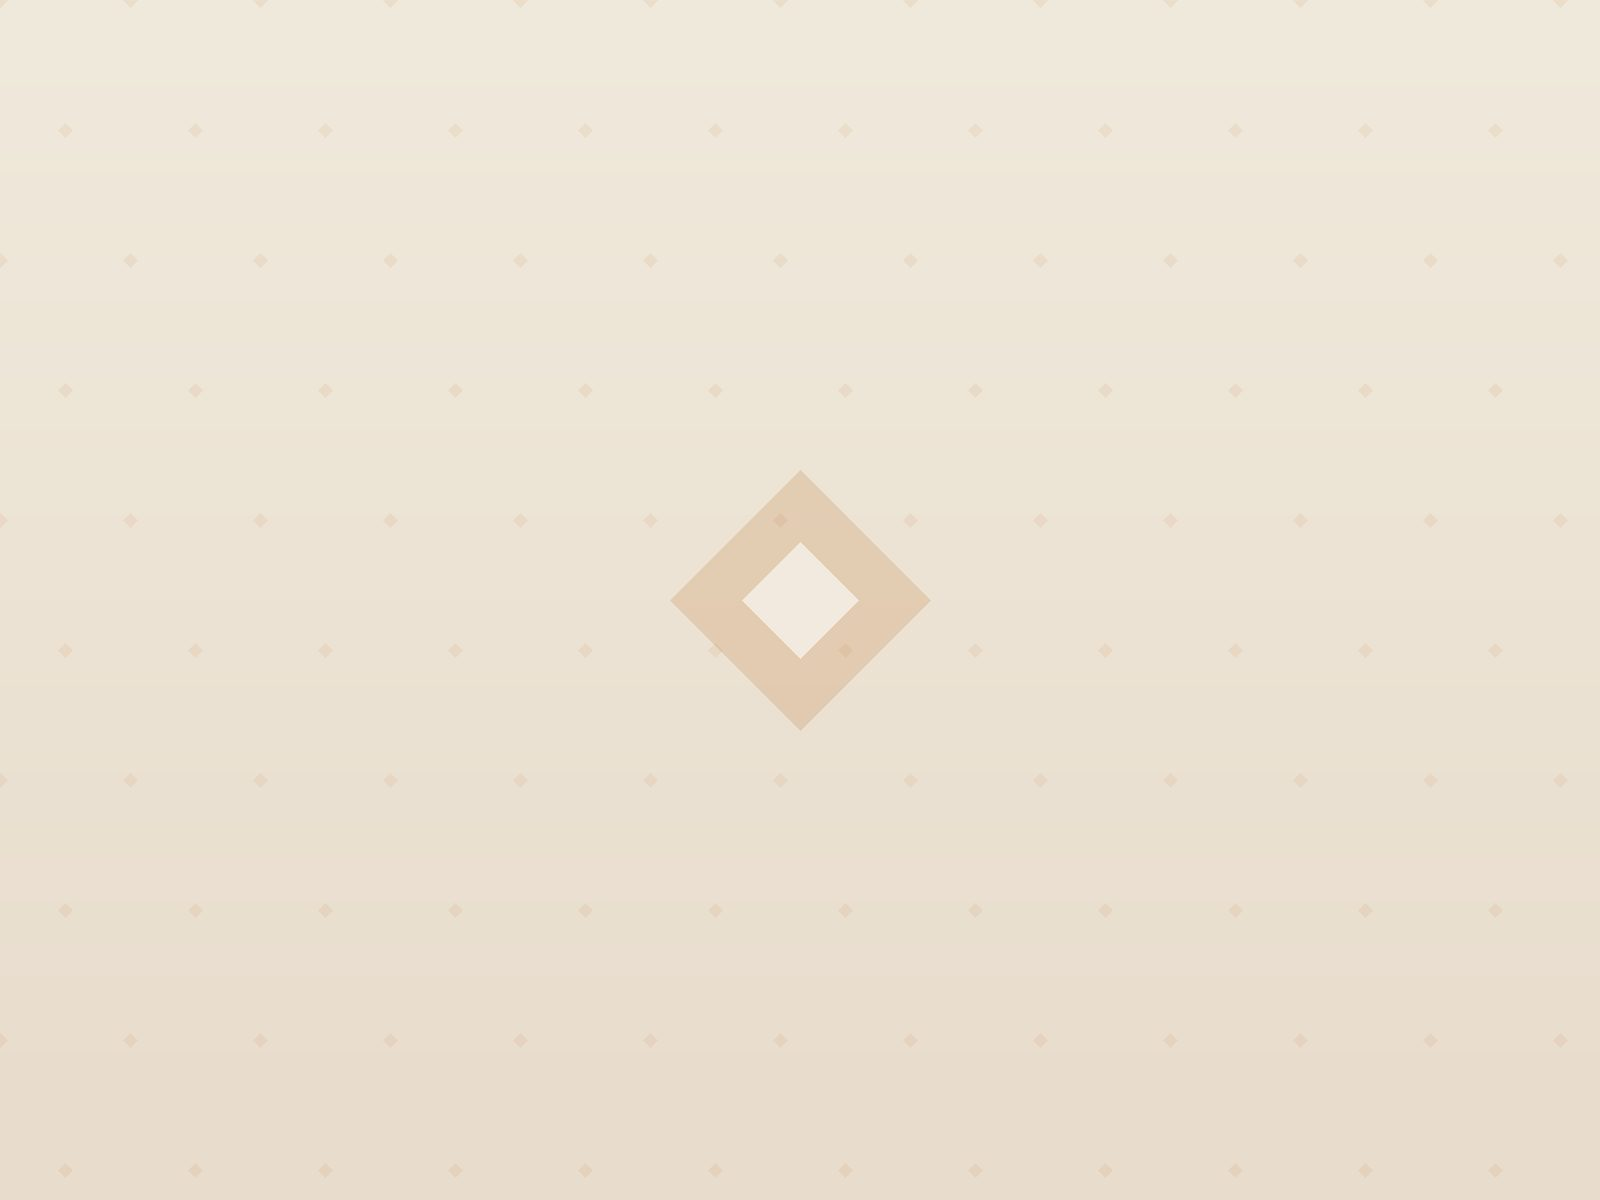
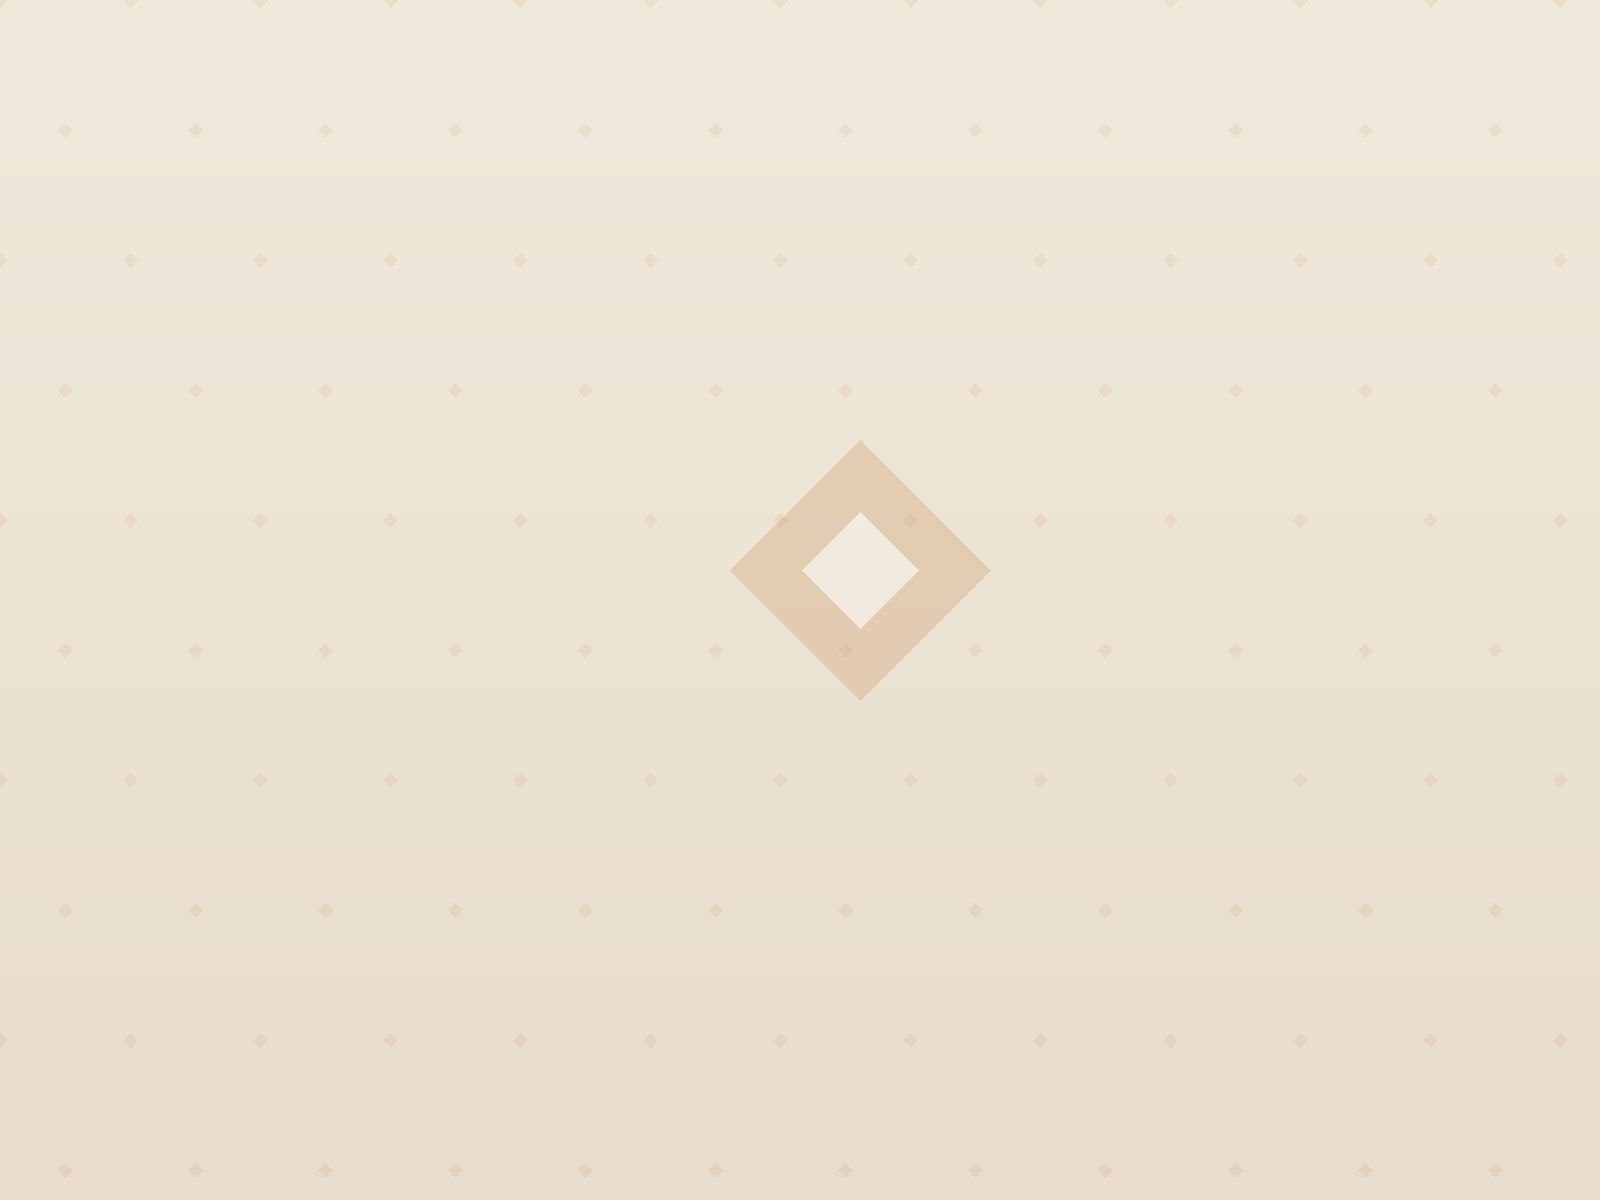
feat: default slika po kategoriji umjesto po grupi
- vendor bez 01/02/03 u svom folderu prikazuje public/images/defaults/<kategorija-slug>.jpg
- 29 privremenih generiranih defaulta (zamijeniti pravim fotkama istog imena);
  starih 5 grupnih uklonjeno
- sync:images upozorava ako kategoriji u upotrebi fali default slika
- DEFAULT_EXT konstanta u lib/images.ts (svi defaulti moraju biti .jpg)

Changed region(s): [[0.4062, 0.37, 0.625, 0.6167]]

diff --git a/lib/images.ts b/lib/images.ts
@@ -1,10 +1,10 @@
 import type { Vendor } from "./types";
-import { vendorGroup } from "./budget";
 
 /**
  * Konvencija slika:
  *   {BASE}/vendors/<slug>/01.jpg, 02.jpg, 03.jpg   ← stvarne slike (max 3, uz dozvolu!)
- *   {BASE}/defaults/<grupa>.jpg                    ← default dok stvarne ne stignu
+ *   {BASE}/defaults/<kategorija-slug>.jpg          ← default kategorije kad vendor nema slika
+ *                                                      (npr. defaults/foto-i-video.jpg)
  *
  * BASE je danas /images (public/ u repou). Selidba na Bunny CDN = postaviti
  * NEXT_PUBLIC_IMAGE_BASE=https://wediplan.b-cdn.net s istom strukturom foldera
@@ -14,6 +14,9 @@ import { vendorGroup } from "./budget";
  * skeniranjem public/images/vendors/<slug>/ — vidi scripts/import-vendors.mjs
  * i `npm run sync:images`.
  */
+/** Ekstenzija default slika — sve default slike moraju biti u ovom formatu. */
+export const DEFAULT_EXT = ".jpg";
+
 export const IMAGE_BASE = process.env.NEXT_PUBLIC_IMAGE_BASE ?? "/images";
 
 export interface VendorImage {
@@ -28,7 +31,7 @@ export function vendorImages(vendor: Vendor): VendorImage[] {
       isDefault: false,
     }));
   }
-  return [{ src: `${IMAGE_BASE}/defaults/${vendorGroup(vendor)}.jpg`, isDefault: true }];
+  return [{ src: `${IMAGE_BASE}/defaults/${vendor.category}${DEFAULT_EXT}`, isDefault: true }];
 }
 
 export function coverImage(vendor: Vendor): VendorImage {

diff --git a/README.md b/README.md
@@ -51,12 +51,12 @@ Kolone `web/telefon/email` su interna evidencija — import ih **ne** objavljuje
 Konvencija (ista danas u repou i sutra na Bunny CDN-u):
 ```
 public/images/vendors/<slug>/01.jpg   ← stvarne slike, max 3 (02.jpg, 03.jpg), UZ IZRIČITU DOZVOLU
-public/images/defaults/<grupa>.jpg    ← default dok stvarne ne stignu (sala/catering/foto/glazba/ostalo)
+public/images/defaults/<kategorija-slug>.jpg  ← default kategorije kad vendor nema slika (npr. foto-i-video.jpg; 29 kom, mora biti .jpg)
 ```
 1. `npm run scaffold:images` — napravi folder za SVAKOG pružatelja iz data/vendors.json (ne dira postojeće). Svaki prazan folder sadrži `STAVI_SLIKE_OVDJE.txt` s podsjetnikom (slobodno obriši tu datoteku).
 2. Ubaci `01.jpg` (glavna slika), po želji `02.jpg`, `03.jpg` — jpg/png/webp, preporuka max ~1600 px širine.
 3. `npm run sync:images` — upiše `photos` u data/vendors.json (import to radi i sam). Skripta upozorava na tipfelere u imenu foldera i višak slika.
-3. `next/image` sam radi sve veličine i formate (na Vercelu automatski). Bez stvarnih slika prikazuje se default grupe (alt: „ilustracija”).
+3. `next/image` sam radi sve veličine i formate (na Vercelu automatski). Bez stvarnih slika prikazuje se default njegove kategorije (alt: „ilustracija”); privremene generirane defaulte zamijeni pravim fotografijama istog imena. `sync:images` upozorava ako kategoriji u upotrebi fali default.
 
 **Selidba na Bunny kasnije:** preslikaj `public/images/` strukturu u storage zonu i postavi `NEXT_PUBLIC_IMAGE_BASE=https://<zona>.b-cdn.net` (env na Vercelu) — `next.config.mjs` automatski dodaje remotePattern, kod se ne mijenja.
 